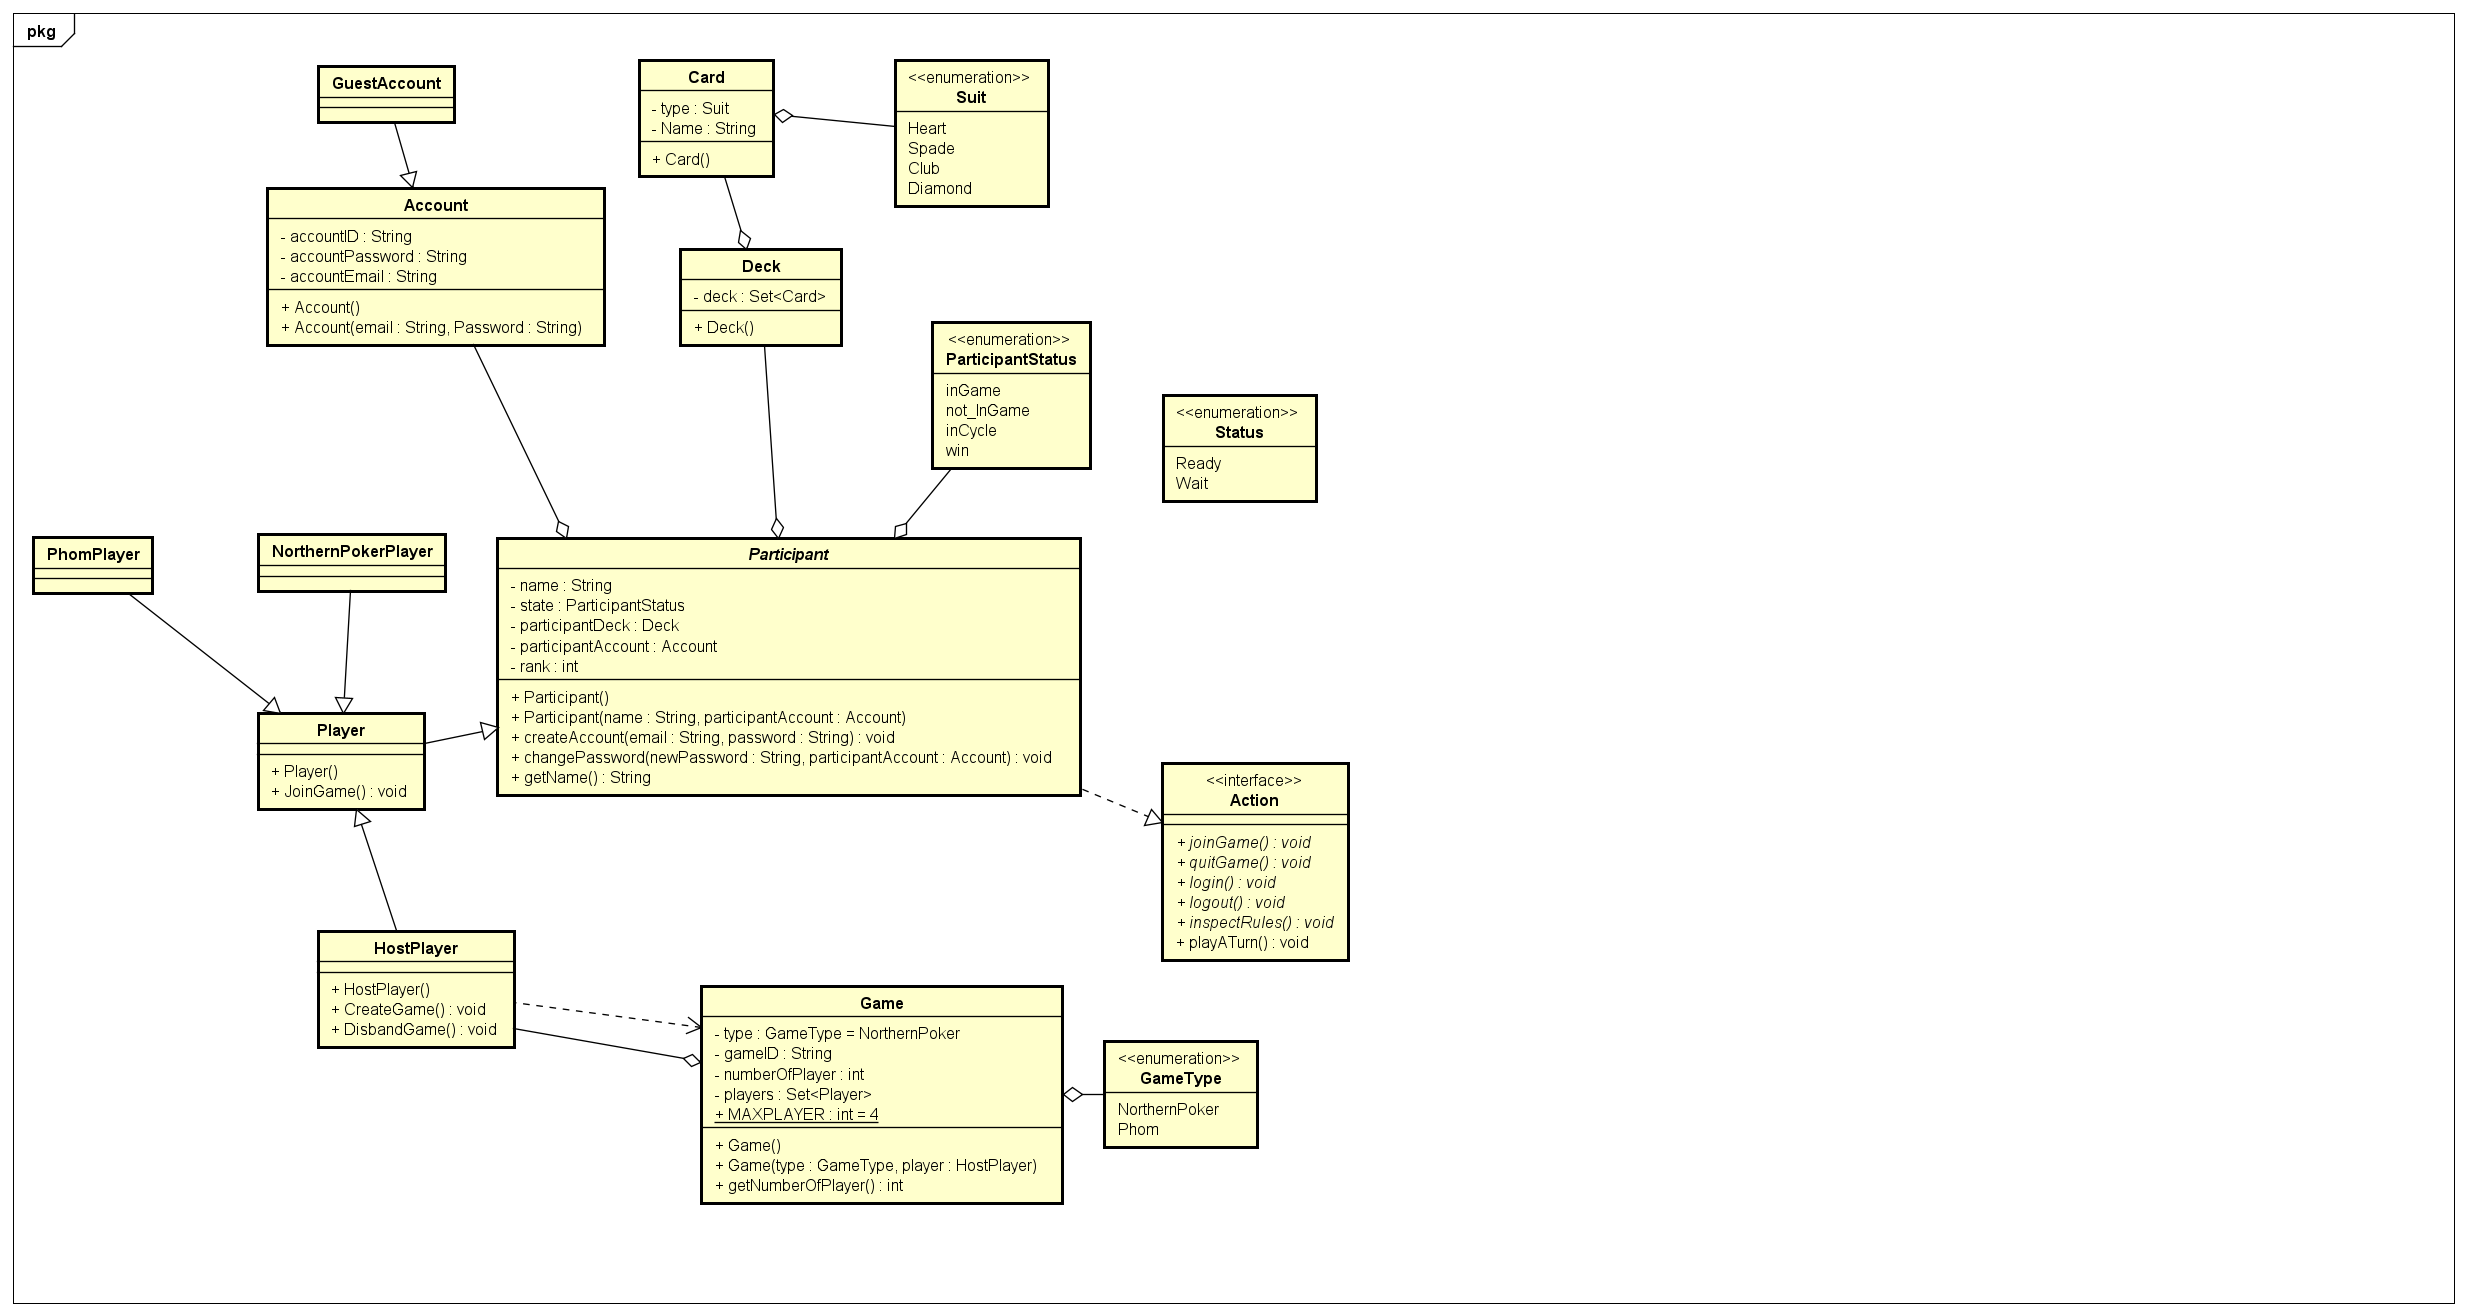
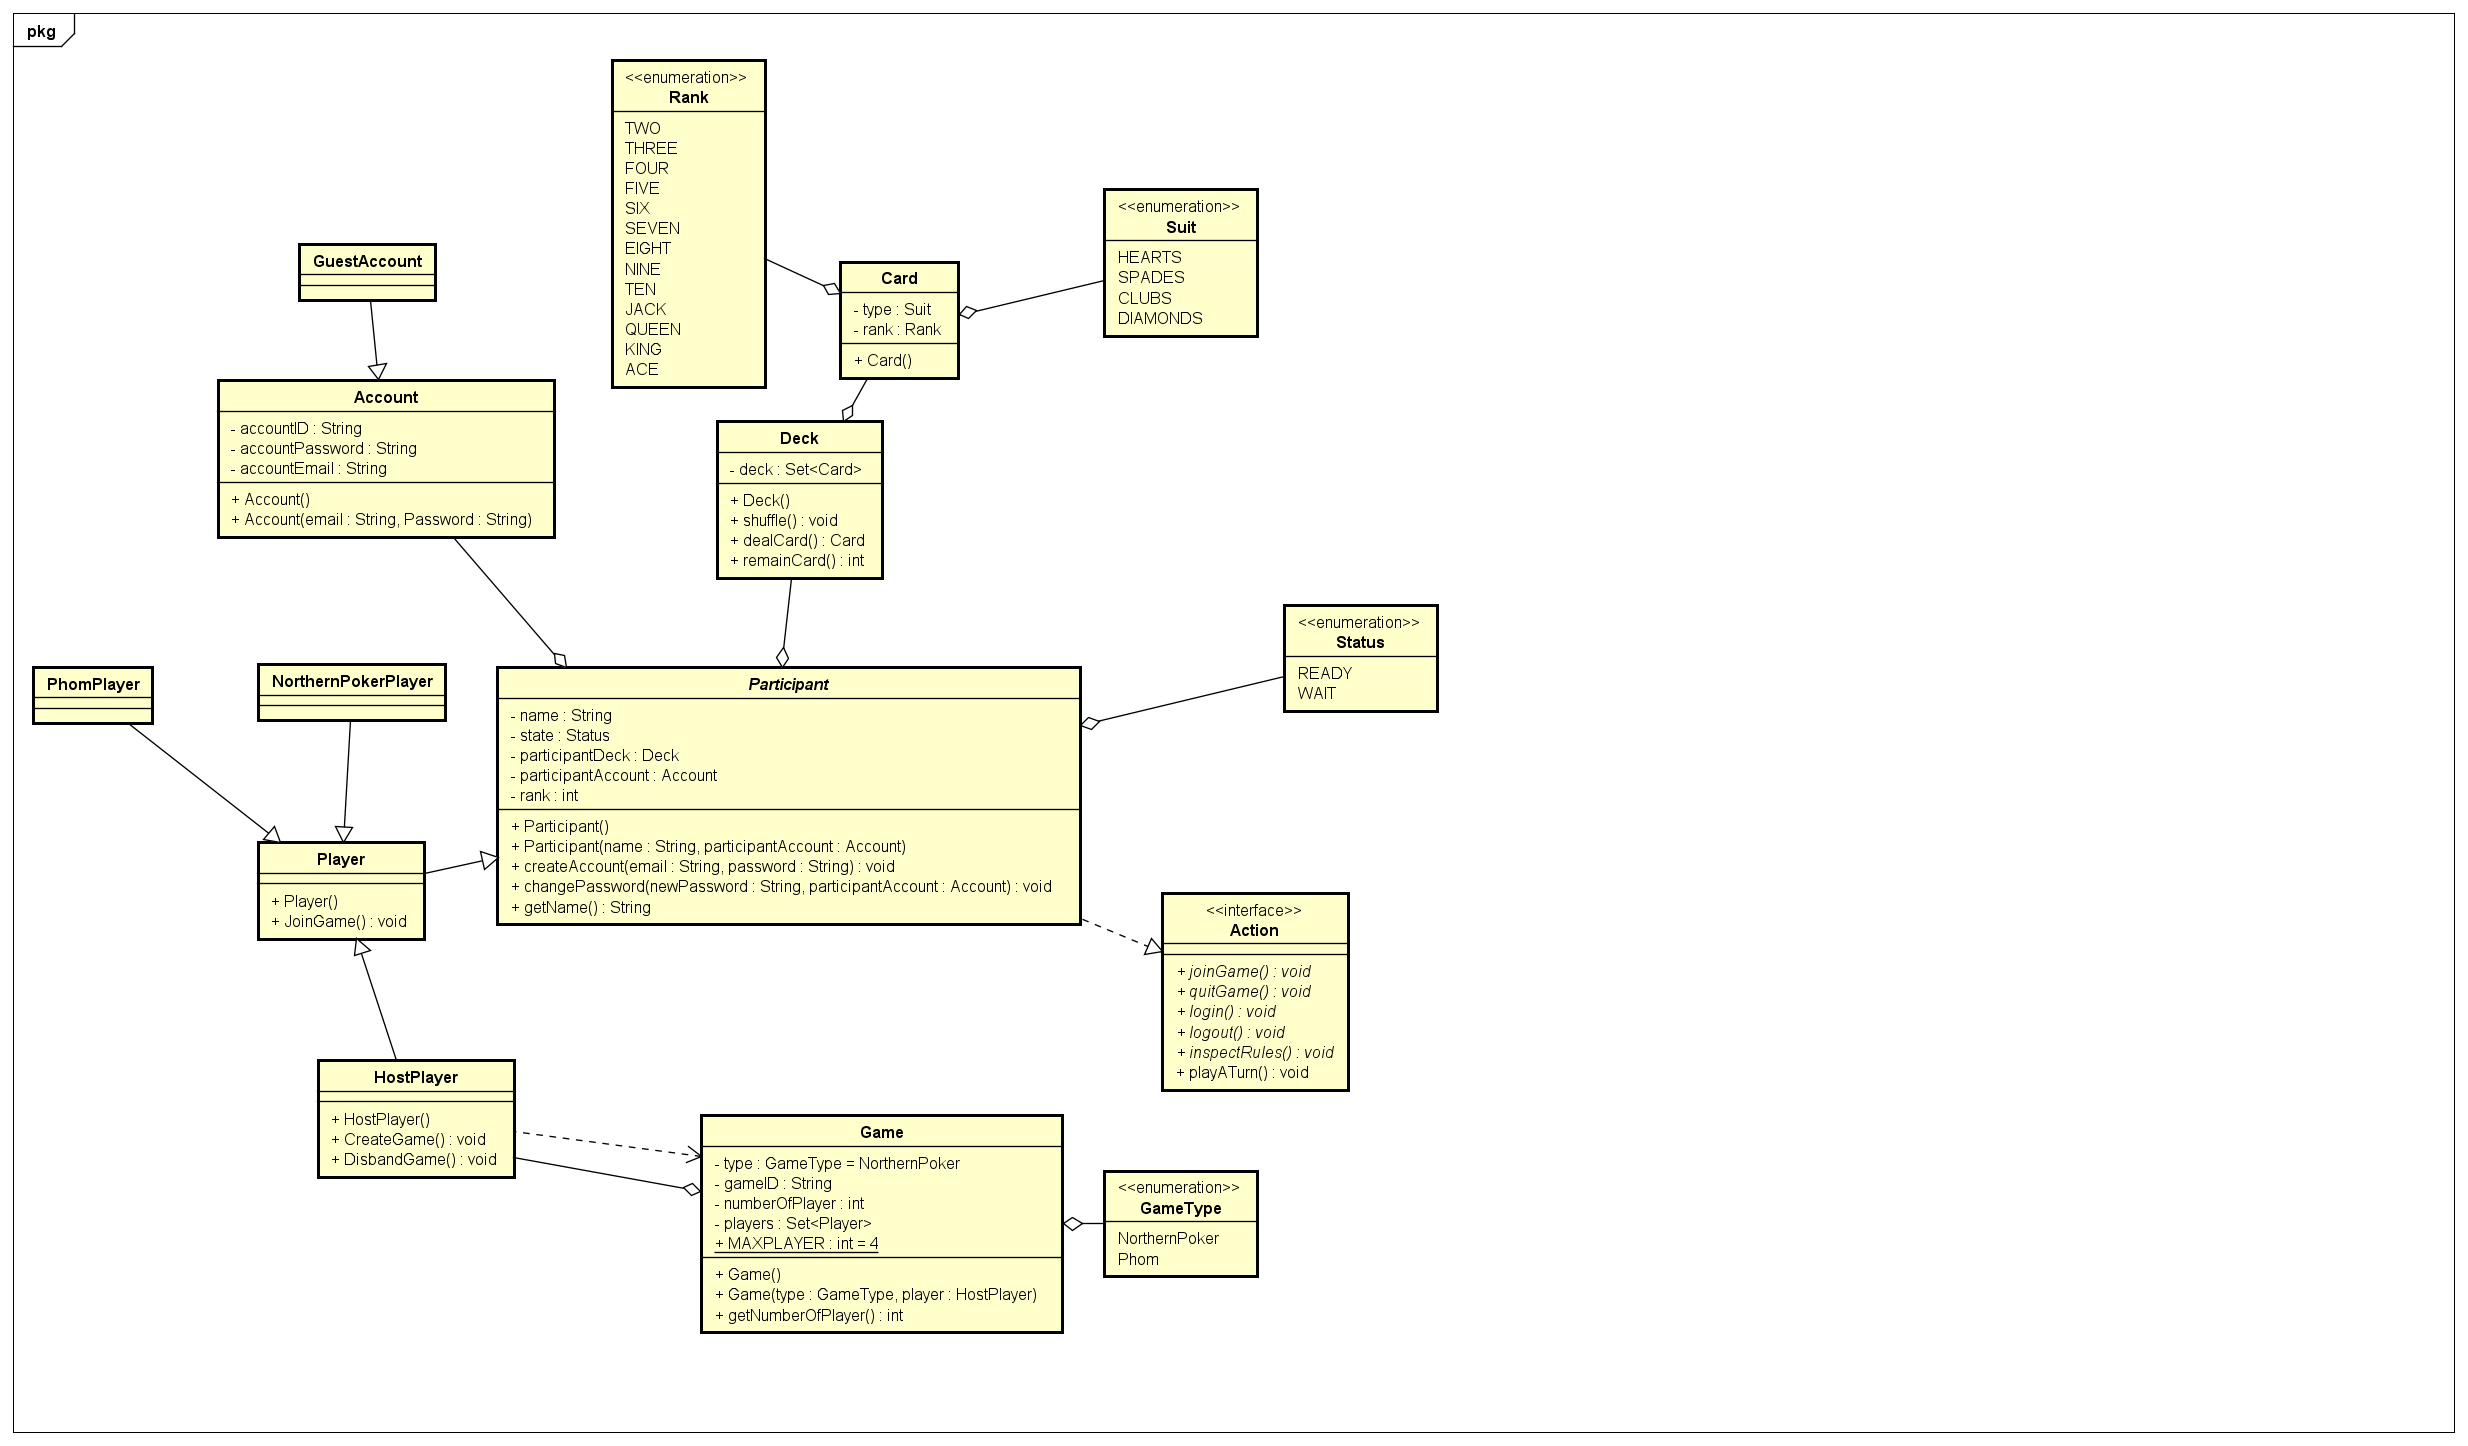
Update class diagram and corresponding code

diff --git a/src/nonsystem/Participant.java b/src/nonsystem/Participant.java
@@ -1,11 +1,11 @@
 package nonsystem;
 
-import gameenum.ParticipantStatus;
+import gameenum.Status;
 import gameinterface.Action;
 
 public abstract class Participant implements Action {
     protected String name;
-    protected ParticipantStatus state;
+    protected Status state;
     protected Deck participantDeck;
     protected Account participantAccount;
     protected int rank;

diff --git a/src/gameenum/Status.java b/src/gameenum/Status.java
@@ -1,5 +1,5 @@
 package gameenum;
 
 public enum Status {
-    Ready, Wait
+    READY, WAIT
 }

diff --git a/src/nonsystem/NorthenPokerPlayer.java b/src/nonsystem/NorthenPokerPlayer.java
@@ -1,0 +1,4 @@
+package nonsystem;
+
+public class NorthenPokerPlayer extends Player{
+}

diff --git a/src/nonsystem/PhomPlayer.java b/src/nonsystem/PhomPlayer.java
@@ -1,0 +1,4 @@
+package nonsystem;
+
+public class PhomPlayer extends Player{
+}
